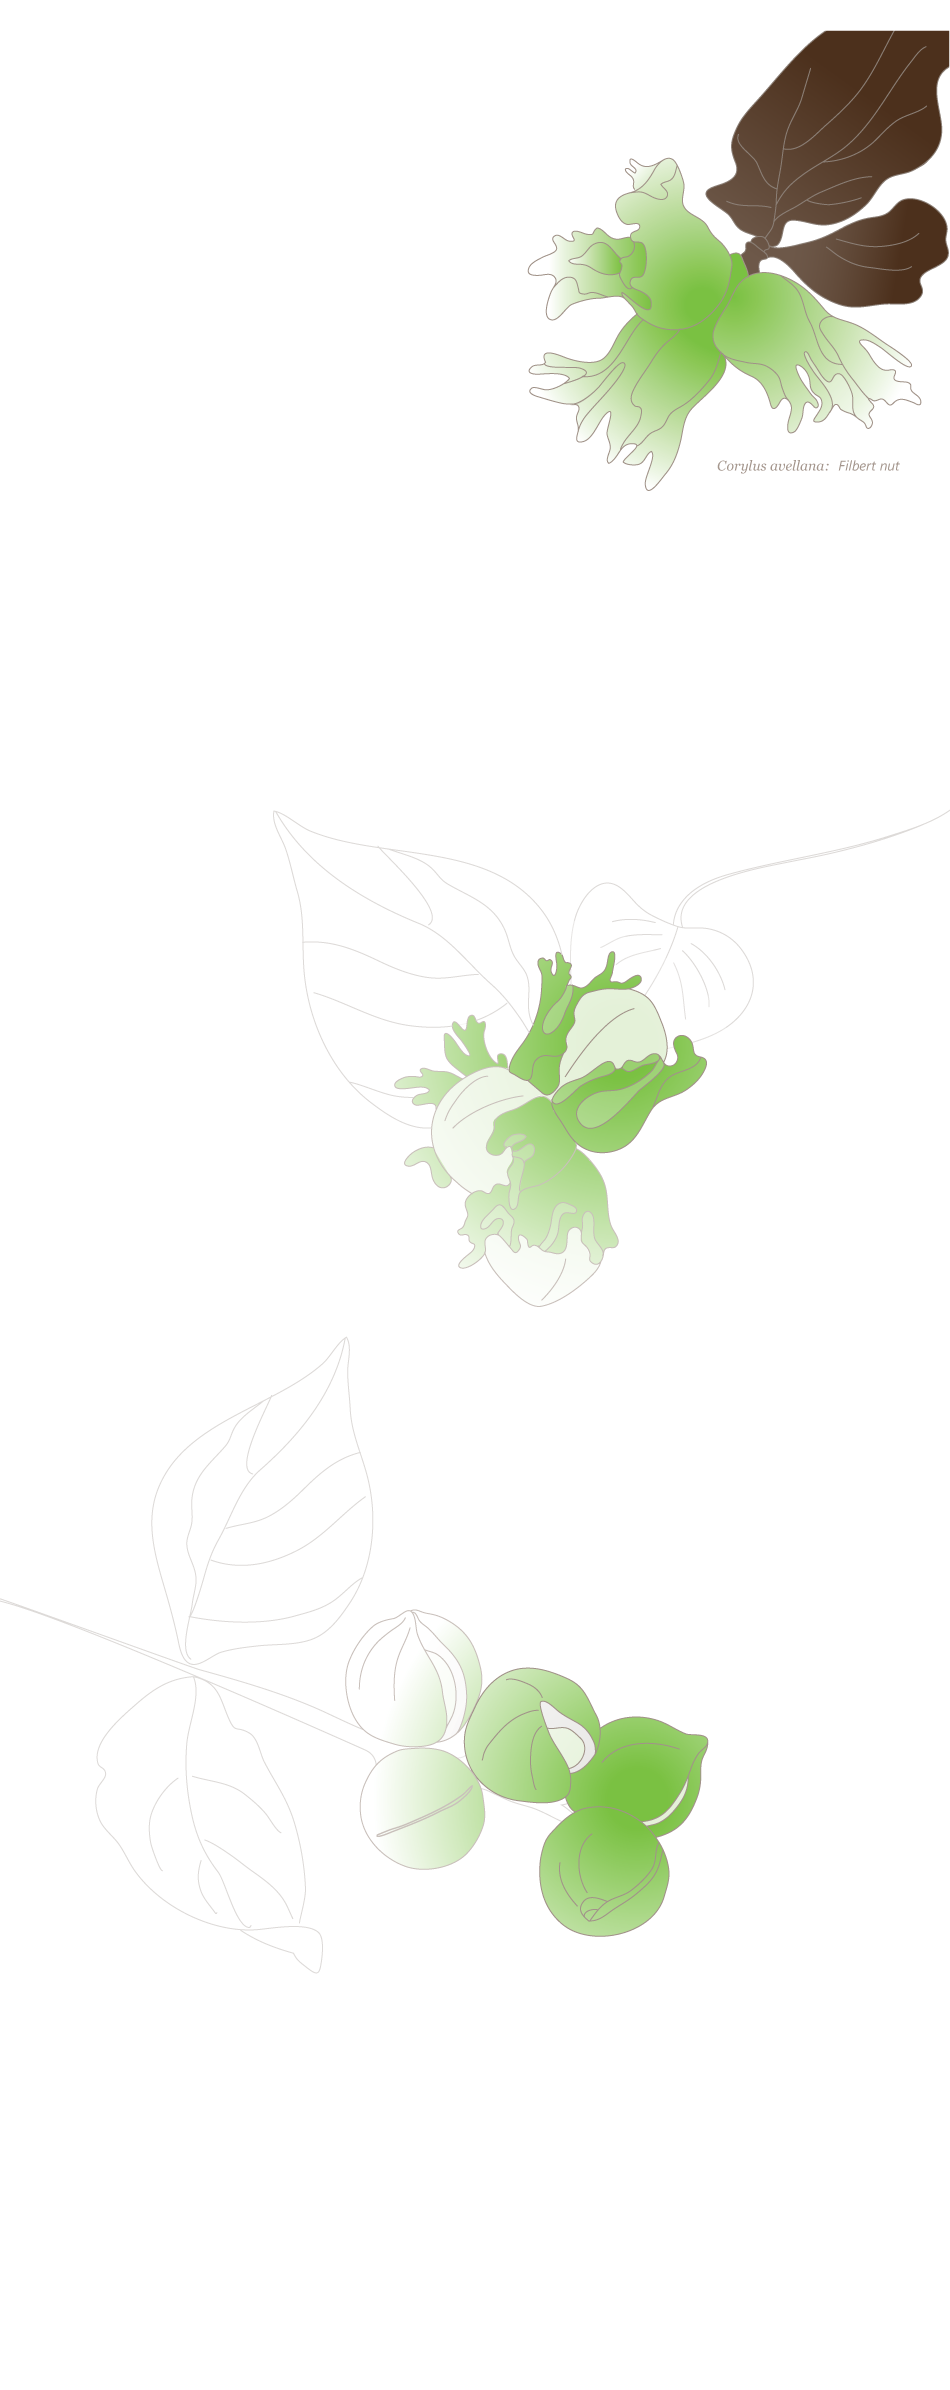
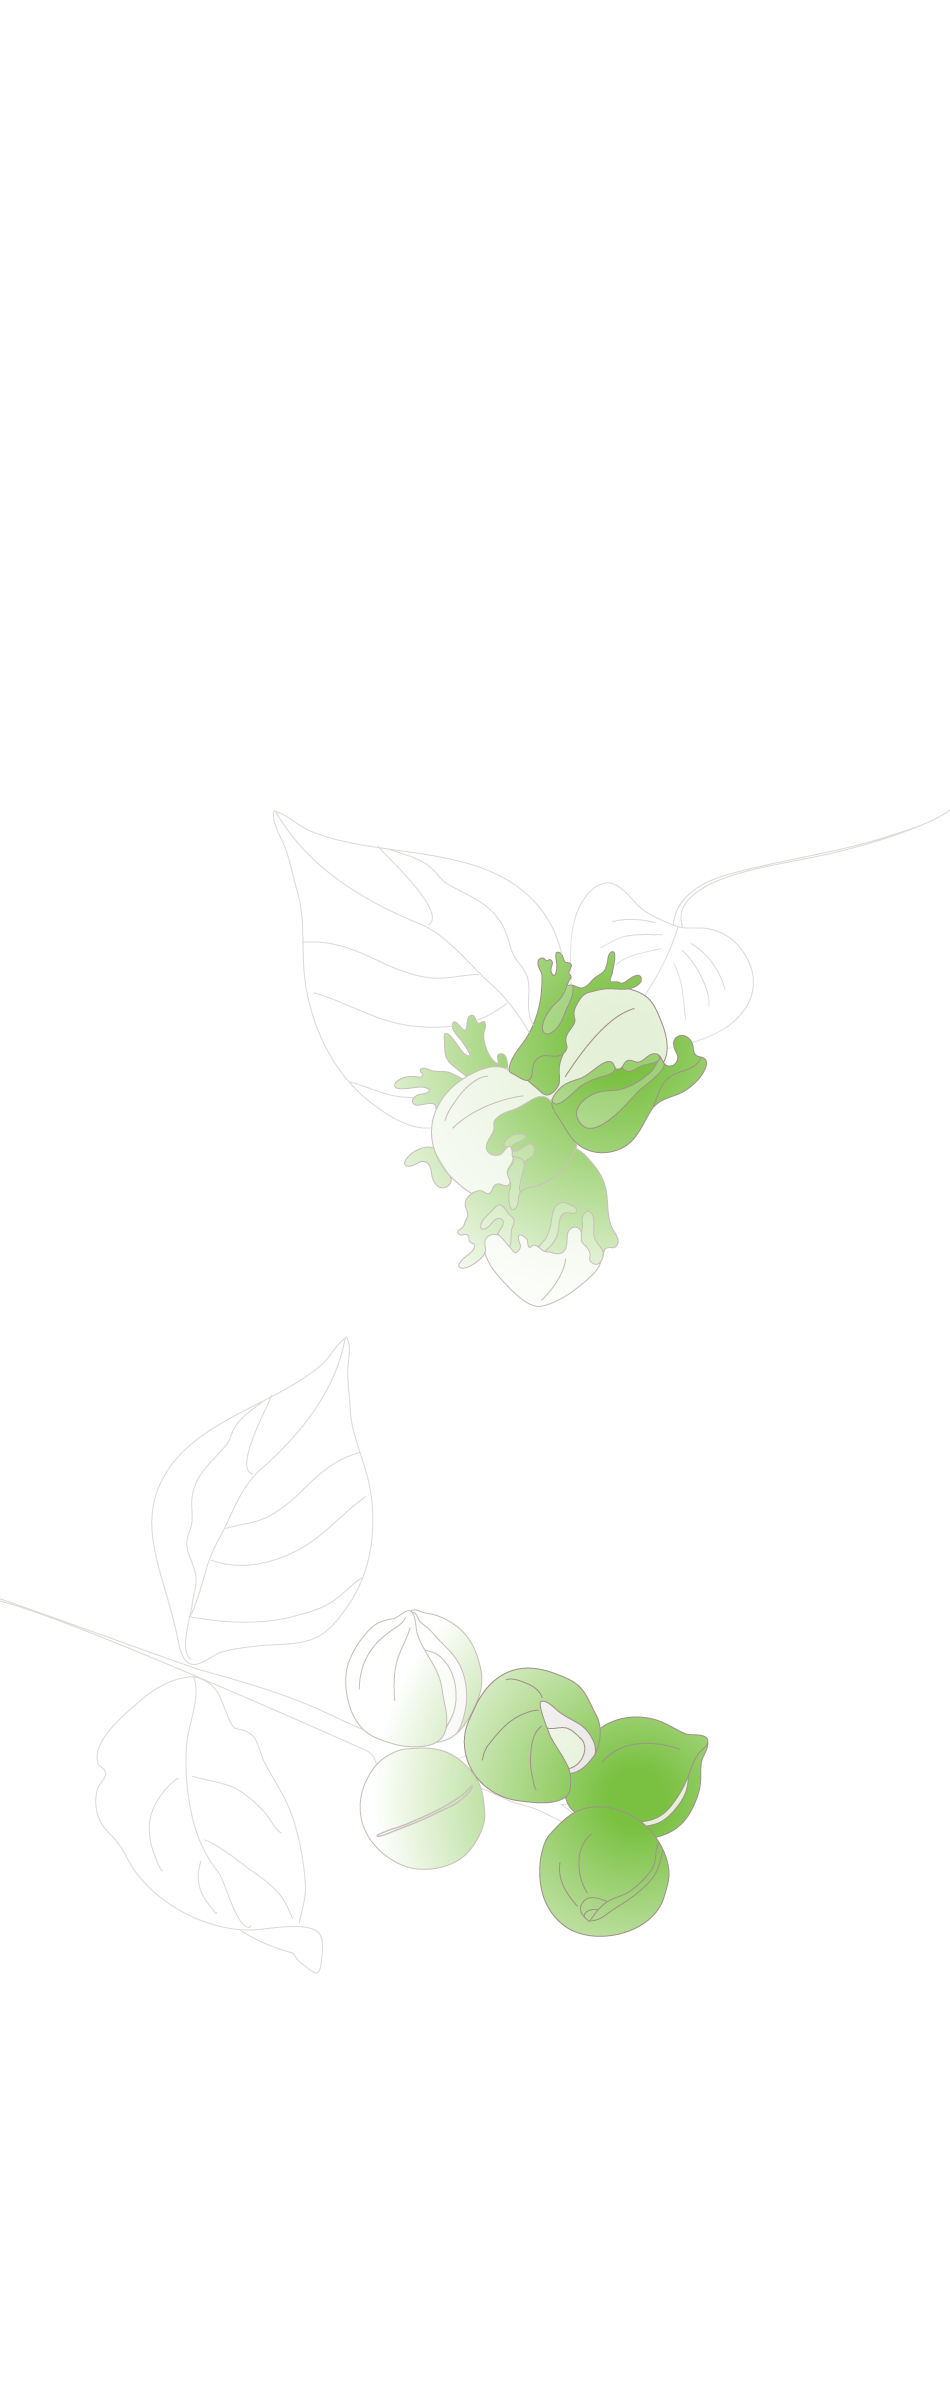
Break out nut from background to resolve margin at top of background image

Changed region(s): [[0.58, 0.0, 1.0, 0.2167]]

diff --git a/style.css b/style.css
@@ -534,6 +534,14 @@ body {
     margin: 21px 0 0 -8px;
     z-index: -4;
 }
+.background-nut {
+    background: url("img/nut.png") no-repeat scroll 0% 0% transparent;
+    position: absolute;
+    top: 30px;
+    right: 0px;
+    width: 500px;
+    height: 600px;
+}
 #green {
     width: 155px;
     height: 255px;
@@ -645,7 +653,7 @@ body {
 }
 .main-content {
     overflow: hidden;
-    padding: 0 33px 0 33px;
+    padding: 0px 60px 0 33px;
 }
 .content-block {
 	margin-bottom: 30px;
@@ -752,17 +760,6 @@ body {
     margin: 0 0 -1px -1px;
     vertical-align: top;
 }
-/* Images here */
-
-#imageBar {
-    width: 212px;
-    /*margin: 0 0 0 -222px;*/
-    /*position: relative;*/
-    /*float: left;*/
-    /*padding: 0 0 -30px 45px;*/
-    /* border-right: 10px #50B748 solid;	 */
-}
-/* Image spacing */
 
 .regular {
     margin: 0px 10px 0px 0;
@@ -880,4 +877,16 @@ span.blue a {
 }
 #translate-this {
     z-index: 10;
+}
+
+@media only screen and (max-width: 839px) {
+    .background-nut {
+        background-size: 20em;
+    }
+    .right-column {
+        top: 390px;
+    }
+    #imgcontent img {
+        width:70%;
+    }
 }

diff --git a/index.html b/index.html
@@ -22,6 +22,7 @@
     <div id="popcontent"></div>
     <div id="brown-bg"></div>
     <div id="main">
+        <div class="background-nut"></div>
         <div id="headercontent"></div>
         <div id="container">
             <div class="right-column">
